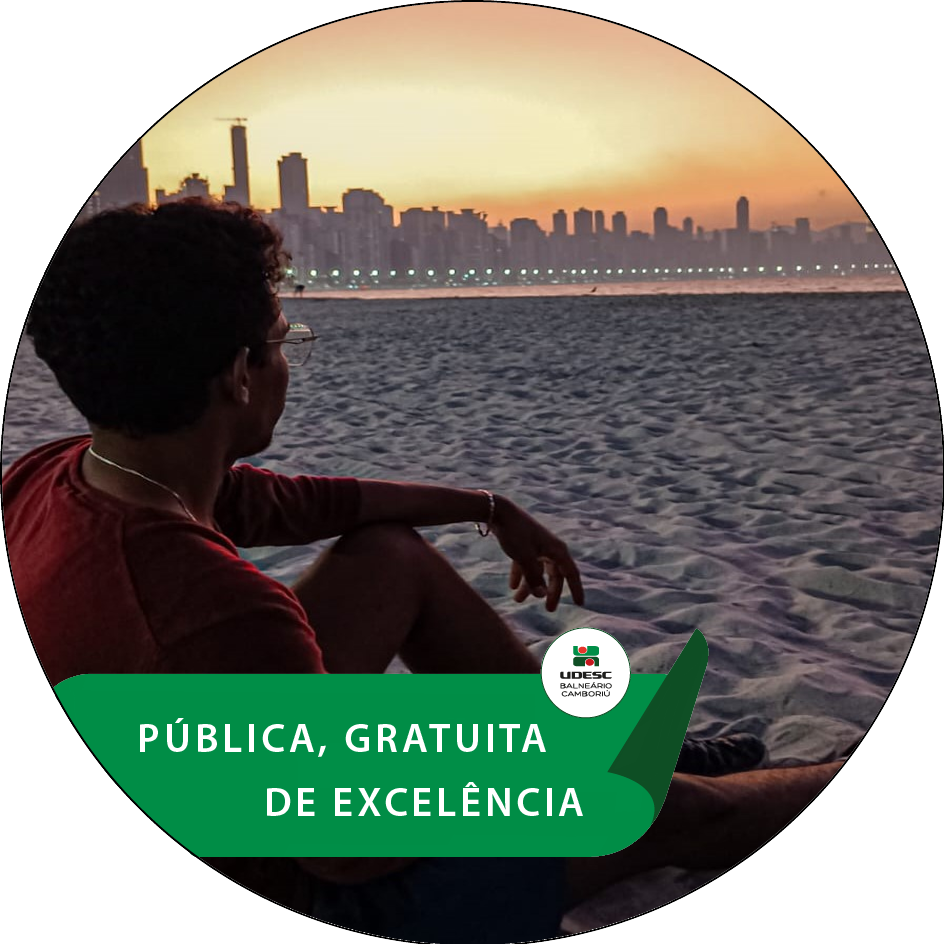
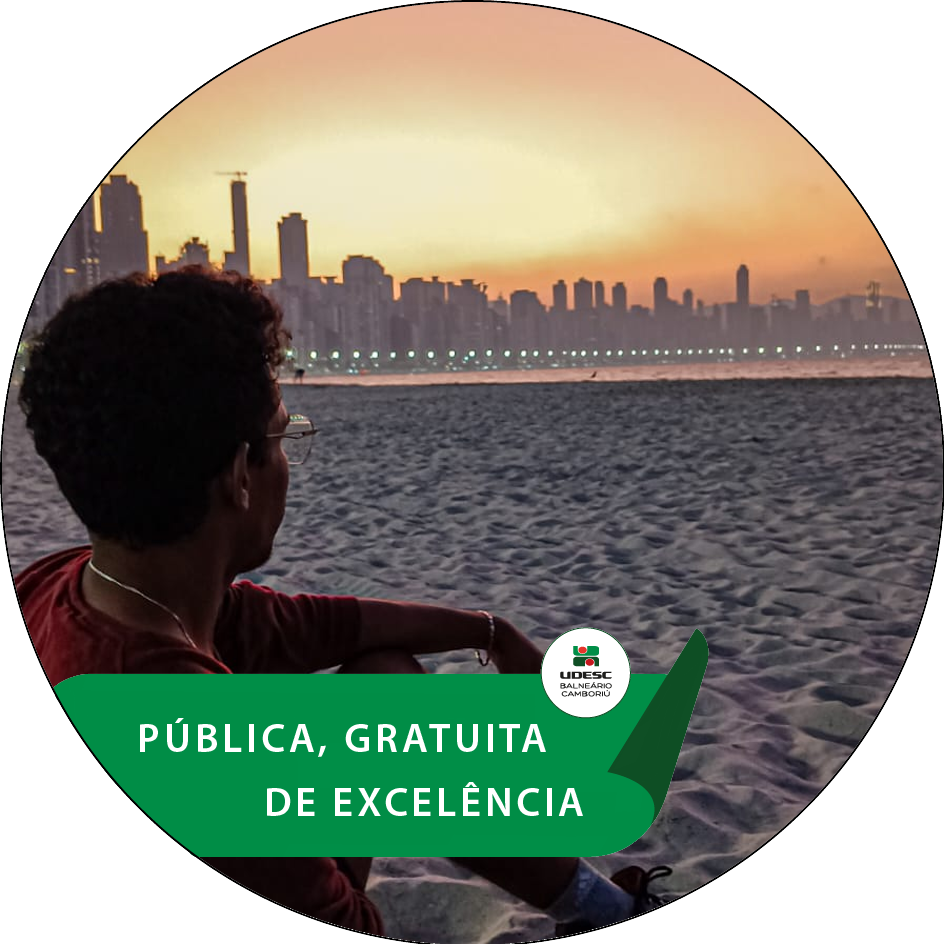
Implementação da redimensionalização de imagens. As imagens são cortadas e redimensionalizadas de acordo com o tamanho do selo.

diff --git a/Functions.py b/Functions.py
@@ -2,36 +2,50 @@ from PIL import Image, ImageDraw, ImageFont
 import base64
 
 
-def circularIMG(root, dimension):
-    imagem_normal = Image.open(root)
-    largura, altura = (dimension[0], dimension[1])
-    imagem_redimensionada = imagem_normal.resize((largura, altura))
-
-    mascara = Image.new('L', (largura, altura), 0)
-    draw = ImageDraw.Draw(mascara)
-    draw.ellipse((0, 0, largura, altura), fill=255)
-
-    imagem_circular = Image.new('RGBA', (largura, altura))
-    imagem_circular.paste(imagem_redimensionada, (0, 0), mascara)
-    imagem_circular.save(root)
-    imgSELO('temp_image.png', 'Selo - modelo 01.png')
-
-
 def imgSELO(root_imagem, root_selo):
     imagem_sem_SELO = Image.open(root_imagem)
     imagem_SELO = Image.open(root_selo)
 
-    # Defina a posição onde deseja adicionar o selo
+    # Define a posição onde deseja adicionar o selo
     posicao = (0, 0)
 
-    # Cole o selo na imagem de perfil
+    # Cola o selo na imagem de perfil
     imagem_sem_SELO.paste(imagem_SELO, posicao, imagem_SELO)
 
-    # Salve a imagem com o selo
+    # Salva a imagem com o selo
     imagem_com_selo = imagem_sem_SELO.save(root_imagem)
 
-    # Mostrar a imagem resultante (opcional)
-    # imagem_sem_SELO.show()
+
+def circularIMG(root, dimension):
+    imagem_original = Image.open(root)
+    largura_original, altura_original = imagem_original.size[0], imagem_original.size[1]
+
+    # Verificar se a imagem_original precisa ser redimensionada
+    if largura_original != altura_original:
+        min_len = min(largura_original, altura_original)
+
+        # Calcular as coordenadas de corte para ajustar a imagem_normal
+        left = (imagem_original.width - min_len) // 2
+        top = (imagem_original.height - min_len) // 2
+        right = left + min_len
+        bottom = top + min_len
+
+        # Cortar a imagem_normal para corresponder ao tamanho da imagem_circular
+        imagem_original = imagem_original.crop((left, top, right, bottom))
+        new_image = imagem_original.resize(dimension)
+    else:
+        new_image = imagem_original.resize(dimension)
+
+    # Desenha um circulo na imagem, onde será recortado
+    mascara = Image.new('L', new_image.size, 0)
+    draw = ImageDraw.Draw(mascara)
+    draw.ellipse((0, 0, new_image.size[0], new_image.size[1]), fill=255)
+
+    imagem_circular = Image.new('RGBA', new_image.size)
+    imagem_circular.paste(new_image, (0, 0), mascara)
+    imagem_circular.save(root)
+
+    imgSELO('temp_image.png', 'Selo - modelo 01.png')
 
 
 # Função para criar um link de download

diff --git a/Interface_main.py b/Interface_main.py
@@ -2,8 +2,9 @@ import streamlit as st
 import base64
 import Functions
 
-
-st.title("Upload e Download de Imagem")
+# Adicione sua logo como um elemento de imagem
+st.image("Udesc_LOGO.png", use_column_width=True)  # Substitua "caminho_para_sua_logo.png" pelo caminho real da sua logo
+st.title("Insira abaixo o selo da UDESC na sua foto de perfil")
 
 # Upload da imagem
 uploaded_image = st.file_uploader("Faça o upload da sua imagem", type=["jpg", "png", "jpeg"])
@@ -13,7 +14,7 @@ if uploaded_image is not None:
     # st.image(uploaded_image, caption="Imagem Carregada", use_column_width=True)
 
     # Botão para baixar a imagem
-    if st.button("Baixar Imagem com selo da UDESC"):
+    if st.button("Clique aqui para gerar sua nova imagem!"):
         # Salvar a imagem em um arquivo temporário
         with open("temp_image.png", "wb") as f:
             f.write(uploaded_image.read())
